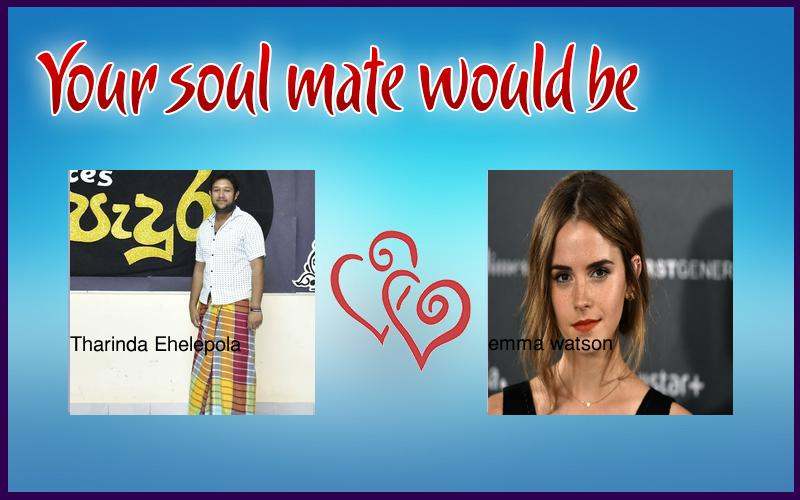
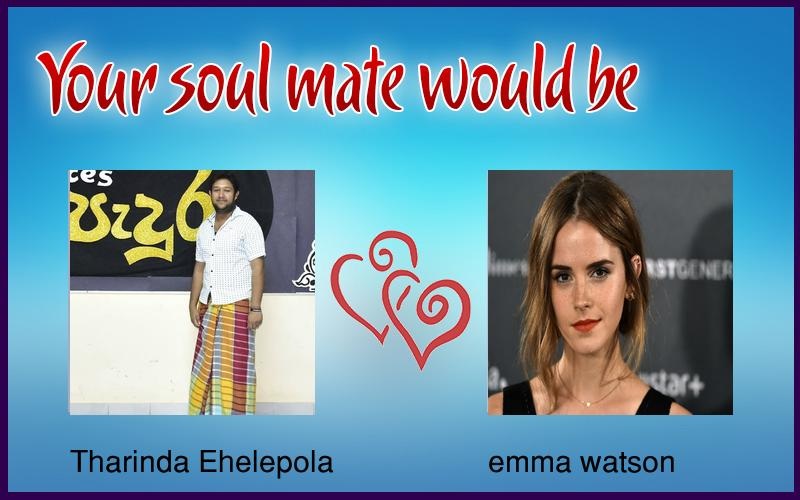
image changes added

diff --git a/static/javascripts/loadApp.js b/static/javascripts/loadApp.js
@@ -9,16 +9,19 @@ $(document).ready(function(){
     console.log('image_utl :'+ image_url);
 
     $.get(image_url).done(function(data){
-        // var facebookHref = $('#facebook-share').attr('href');
-        // facebookHref = facebookHref.replace('######', data['imageUrl']);
-        // $('#facebook-share').attr('href', facebookHref);
-        setTimeout( function () {
-            console.log('data : '+data['imageUrl']);
-            $('#app-image').attr('src', data['imageUrl']);
-            var url = $('#facebook-share').attr('href');
-            url = url.replace('######', data['imageUrl']);
-            $('#facebook-share').attr('href', url);
-            $('#facebook-share').show();
-        }, 3000);
+        console.log('data : '+data['imageUrl']);
+        $('#app-image').attr('src', data['imageUrl']);
+        var url = $('#facebook-share').attr('href');
+        url = url.replace('######', data['imageUrl']);
+        $('#facebook-share').attr('href', url);
+        $('#facebook-share').show();
+        // setTimeout( function () {
+        //     console.log('data : '+data['imageUrl']);
+        //     $('#app-image').attr('src', data['imageUrl']);
+        //     var url = $('#facebook-share').attr('href');
+        //     url = url.replace('######', data['imageUrl']);
+        //     $('#facebook-share').attr('href', url);
+        //     $('#facebook-share').show();
+        // }, 3000);
     })
 });

diff --git a/core/appmgt/facebookApps.py b/core/appmgt/facebookApps.py
@@ -2,6 +2,8 @@
 
 import dateutil.parser as parser
 from random import randint
+import time
+
 # import classes
 from core.socialmediamgt.facebook import *
 from core.imageProcessing.Operations import *
@@ -9,6 +11,9 @@ from core.usermgt.user import *
 from core.common.Constants import *
 import config
 from core.imageProcessing.libs.cartoonify import *
+
+delay = 5
+
 
 def random_with_N_digits(n):
     range_start = 10 ** (n - 1)
@@ -79,11 +84,11 @@ class facebookAppsMethods(object):
         background = Image.open(config.pathToStatic + document["AppSourceImage"])
         background.paste(userImage, (70, 170))
         background.paste(celebImage, (488, 170))
-        writeTextInImage(session["facebookUser"]["userName"], background, 30, 70, 260, "black")
-        writeTextInImage(celeb, background, 30, 488, 260, "black")
+        writeTextInImage(session["facebookUser"]["userName"], background, 30, 70, 450, "black")
+        writeTextInImage(celeb, background, 30, 488, 450, "black")
         fileName = str(session["facebookUser"]["userId"])
-        dirPath= config.pathToAppsImage + "app1" + "/result"
-        filePath= config.pathToAppsImage + "app1" + "/result" + "/" + fileName + ".jpg"
+        dirPath = config.pathToAppsImage + "app1" + "/result"
+        filePath = config.pathToAppsImage + "app1" + "/result" + "/" + fileName + ".jpg"
         if os.path.isdir(dirPath):
             if os.path.exists(filePath):
                 os.remove(filePath)
@@ -93,8 +98,9 @@ class facebookAppsMethods(object):
         else:
             os.makedirs(dirPath)
             background.save(filePath)
-        # return config.pathToAppsImage + "app1" + "/" + fileName + ".jpg"
-        return common.baseUrl + "/static/images/appImages/facebook/app1/" + "result" + "/" + fileName + ".jpg"
+        time.sleep(delay)
+        # return common.baseUrl + "/static/images/appImages/facebook/app1/" + "result" + "/" + fileName + ".jpg"
+        return common.baseUrl + "/image/app1"
 
     def cartooning(self, appId):
         # document = databaseCollections.facebookAppsCollectionName.find_one({'_id': ObjectId(appId)})
@@ -118,7 +124,9 @@ class facebookAppsMethods(object):
             os.makedirs(dirPath)
             # output.save(filePath)
             cv2.imwrite(filePath, output)
-        return common.baseUrl + "/static/images/appImages/facebook/app3/" + "result" + "/" + fileName + ".jpg"
+        time.sleep(delay)
+        # return common.baseUrl + "/static/images/appImages/facebook/app3/" + "result" + "/" + fileName + ".jpg"
+        return common.baseUrl + "/image/app3"
 
     def vehicleFind(self, appId):
         document = databaseCollections.facebookAppsCollectionName.find_one({'_id': ObjectId(appId)})
@@ -126,12 +134,12 @@ class facebookAppsMethods(object):
         number = randint(0, 5)
         name, Url = findFirstVehicle(number)
         userImage = readImageFromURL(profileUrl, 245, 245)
-        vehicleImage = readImageFromURL(Url, 300, 300)
+        vehicleImage = readImageFromURL(Url, 400, 300)
         background = Image.open(config.pathToStatic + document["AppSourceImage"])
         background.paste(userImage, (51, 181))
         background.paste(vehicleImage, (320, 150))
-        writeTextInImage(session["facebookUser"]["userName"], background, 25, 37, 5, "white")
-        writeTextInImage(name, background, 25, 330, 5, "white")
+        writeTextInImage(session["facebookUser"]["userName"], background, 25, 37, 450, "white")
+        writeTextInImage(name, background, 25, 330, 450, "white")
         fileName = str(session["facebookUser"]["userId"])
         dirPath = config.pathToAppsImage + "app2" + "/result"
         filePath = config.pathToAppsImage + "app2" + "/result" + "/" + fileName + ".jpg"
@@ -145,6 +153,6 @@ class facebookAppsMethods(object):
             os.makedirs(dirPath)
             background.save(filePath)
         # return config.pathToAppsImage + "app1" + "/" + fileName + ".jpg"
-        return common.baseUrl + "/static/images/appImages/facebook/app2/" + "result" + "/" + fileName + ".jpg"
-
-
+        time.sleep(delay)
+        # return common.baseUrl + "/static/images/appImages/facebook/app2/" + "result" + "/" + fileName + ".jpg"
+        return common.baseUrl + "/image/app2"

diff --git a/uicontroller/index.py b/uicontroller/index.py
@@ -5,6 +5,7 @@ from __init__ import *
 from tempfile import NamedTemporaryFile
 from shutil import copyfileobj
 from os import remove
+import config
 
 
 class main(Resource):
@@ -12,17 +13,10 @@ class main(Resource):
         return redirect('/facebook')
 
 
-class tempImage(Resource):
-    def get(self, appId):
-        logging.error("user Request image")
-        tempFileObj = NamedTemporaryFile(mode='w+b', suffix='jpg')
-        # pilImage = open('/home/tharinda/Working/projects/JSApps/static/images/appImages/facebook/app1/appImage.jpg',
-        #                 'rb')
-        pilImage = open(session["fileName"], 'rb')
-        copyfileobj(pilImage, tempFileObj)
-        pilImage.close()
-        remove(session["fileName"])
-        tempFileObj.seek(0, 0)
+class ImageRendering(Resource):
+    def get(self, appName):
+        pilImage = open(config.pathToAppsImage + appName + '/result/' +
+                        str(session["facebookUser"]["userId"]) + ".jpg", 'rb')
         # response = send_file(tempFileObj, as_attachment=True, attachment_filename='image.jpg')
-        response = send_file(tempFileObj, mimetype='image/jpeg')
+        response = send_file(pilImage, mimetype='image/jpeg')
         return response

diff --git a/core/common/Constants.py b/core/common/Constants.py
@@ -16,8 +16,8 @@ class common:
 
     ApplicationSecret = ""
     numOfAppsPerPage = 8
-    # baseUrl = "http://localhost:5000"
-    baseUrl = "http://jsapps.co"
+    baseUrl = "http://localhost:5000"
+    # baseUrl = "http://jsapps.co"
 
 
 class facebookConstants:
@@ -27,12 +27,12 @@ class facebookConstants:
     graphUrl = 'https://graph.facebook.com/'
 
     # test app credentials
-    # secretKey = "ff8f450170fda495761a8eb648044904"
-    # appID = "1000944106647575"
+    secretKey = "ff8f450170fda495761a8eb648044904"
+    appID = "1000944106647575"
 
     # JSApps credentials
-    secretKey = "ef77aabd222d3c5fe509d1984aa791f6"
-    appID = "1686276391610614"
+    # secretKey = "ef77aabd222d3c5fe509d1984aa791f6"
+    # appID = "1686276391610614"
 
     GraphAPIVersion = "v2.5"
     redirectURL = common.baseUrl + "/callback/facebook"

diff --git a/controller.py b/controller.py
@@ -44,5 +44,5 @@ api.add_resource(about, '/about', endpoint='/about')
 api.add_resource(privacy, '/privacy', endpoint='/privacy')
 
 api.add_resource(createApp, '/facebook/createApp', endpoint='/facebook/createApp')
-api.add_resource(tempImage, '/image/<appId>')
+api.add_resource(ImageRendering, '/image/<appName>')
 api.add_resource(FacebookApplicationAPI, '/facebook/getResultImage/<appId>')
